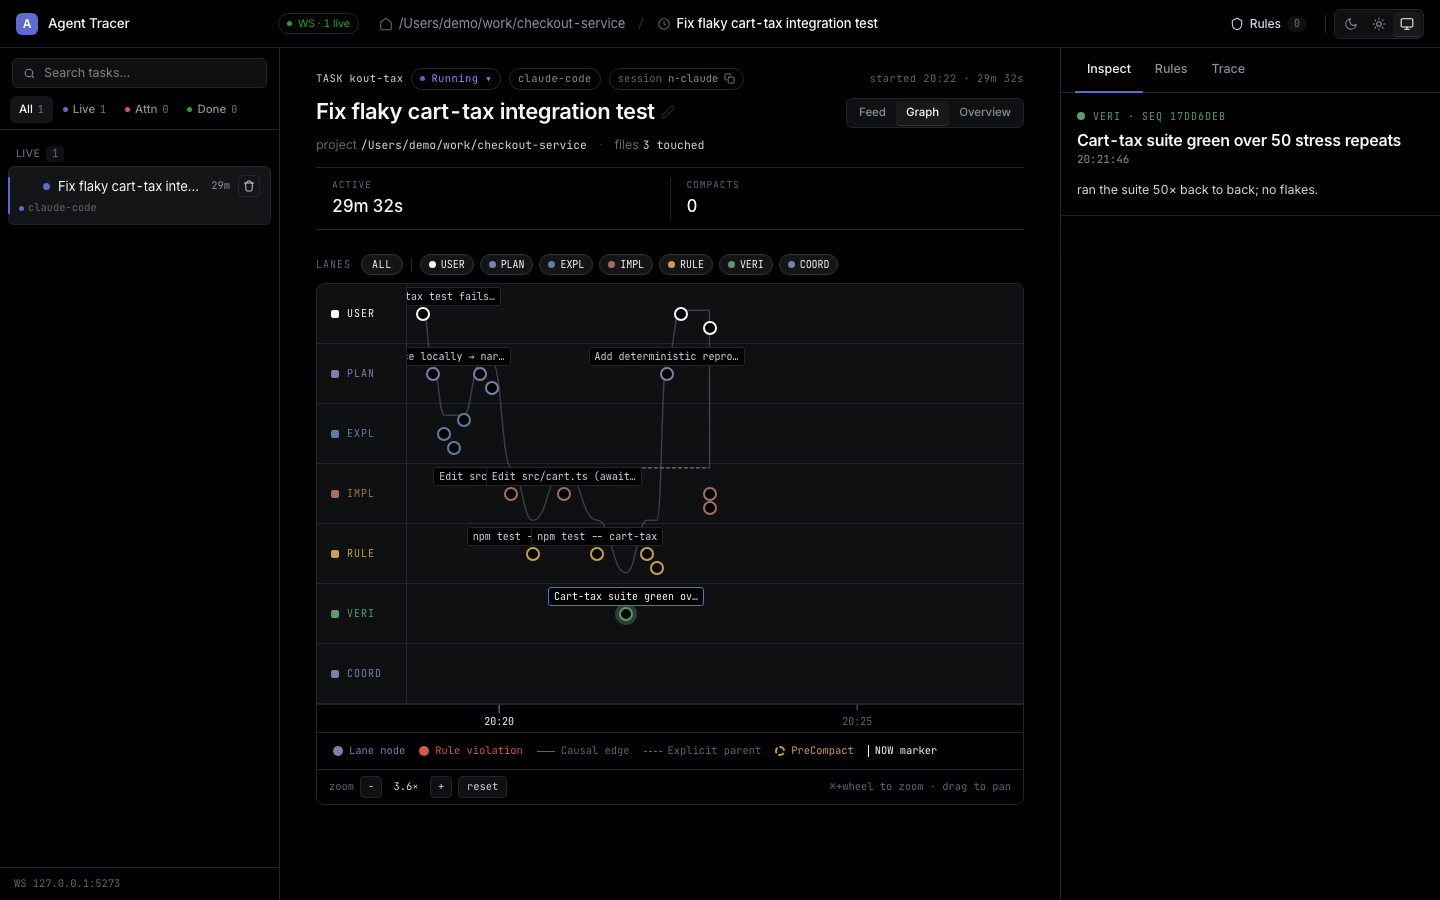
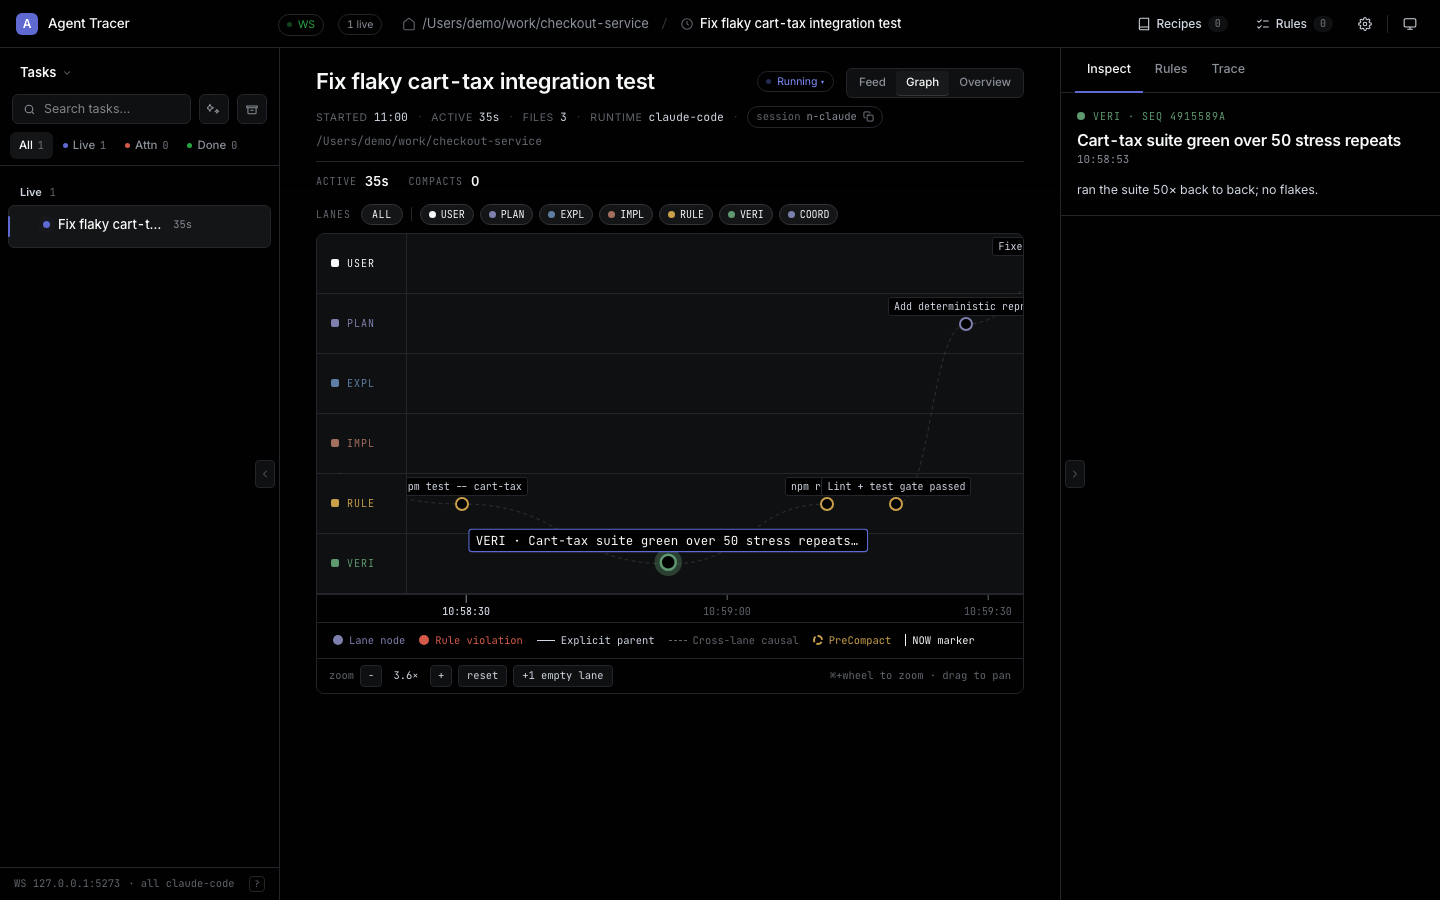
docs(readme): add preview section with dashboard walkthrough
Re-capture the deterministic preview assets (demo.gif/webm and the three
PNG snapshots) and surface them in a new top-level Preview section so
README readers can see what the dashboard does — feed, graph swimlane,
and inspector — without having to clone and boot the stack.

diff --git a/README.md b/README.md
@@ -5,6 +5,22 @@ This repository ships a Claude Code plugin-based event collection path and a
 Codex bootstrap path based on official hooks.
 The server and MCP layers are also open to manual HTTP/MCP clients.
 
+## Preview
+
+A ~60s walkthrough of the dashboard driven by a synthetic "fix the flaky
+cart-tax test" run. The same mock task is used for every screenshot below
+so the visuals stay deterministic — no real agent traffic or PII.
+
+![Agent Tracer dashboard walkthrough](docs/assets/preview/demo.gif)
+
+| Capture | What it shows |
+|---------|---------------|
+| ![Feed view](docs/assets/preview/dashboard-overview.png) | **Feed view.** Per-task timeline of agent activity classified into lanes — `USER` prompts/replies, `PLAN` thoughts, `IMPL` edits, `RULE` terminal commands (e.g. `npm test`, `npm run lint`), `VERI` verification results. Top bar carries task status, workspace path, `Recipes` / `Rules` shortcuts, and the live WebSocket pill. |
+| ![Graph swimlane](docs/assets/preview/feed-graph.png) | **Graph view.** Same events laid out as a zoomable swimlane (one lane per kind) so causal flow between user prompts, planning, exploration, implementation and rule checks reads at a glance. Lane chips toggle visibility; the legend explains node/edge semantics (rule violations, explicit-parent vs cross-lane causal edges, PreCompact markers). |
+| ![Inspector](docs/assets/preview/inspector.png) | **Inspector.** Click any node and the right panel shows its full payload — kind, sequence, timestamp, body, file paths and metadata. The `Inspect / Rules / Trace` tabs surface event-level rule matches and the runtime trace lineage for the selected step. |
+
+To regenerate these assets see [docs/assets/preview/README.md](docs/assets/preview/README.md).
+
 ## Quick Start
 
 Agent Tracer currently supports: